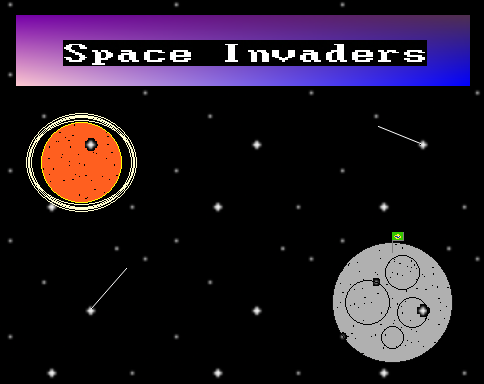
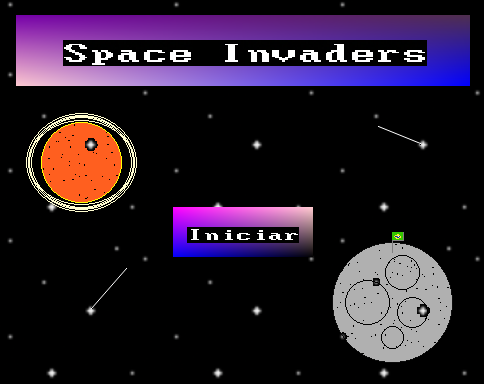
updated README.md

Changed region(s): [[0.3409, 0.5312, 0.6508, 0.6875]]

diff --git a/main.py b/main.py
@@ -37,6 +37,7 @@ laser_sound = load_sound("laser.wav")
 
 bullet_sound.set_volume(0.07)
 bomb_sound.set_volume(0.3)
+laser_sound.set_volume(0.3)
 dead_sound.set_volume(0.3)
 enemy_death_sound.set_volume(0.06)
 
@@ -395,6 +396,7 @@ def main(screen):
 		
 		if keyspressed[pygame.K_ESCAPE]:
 			running = False
+			break
 		
 		if keyspressed[pygame.K_SPACE]:
 			bullets_ps += 1
@@ -631,5 +633,15 @@ def main(screen):
 	quit()
 
 if __name__ == "__main__":
-	main(screen)
-	#tela_inicial(screen)
+	try:
+		if sys.argv[1] == "--skip":
+			main(screen)
+
+		elif sys.argv[1] == "--noskip":
+			tela_inicial(screen)
+
+		else:
+			print("No valid option was given, aborting.")
+			quit()
+	except IndexError:
+		print("\nYou should provide --skip if you want to skip the starting screen, or --noskip if you want to see it.")

diff --git a/README.md b/README.md
@@ -1,3 +1,7 @@
-# you might need to install pygame and numpy if you haven't already installed
+# Space Invaders
 
-# if you're Yuri, welcome! (it's a mess)
+> Para rodar o jogo, digite `python main.py --skip` (se quiser pular a tela inicial do jogo) ou ```python main.py --noskip``` (caso contrário). Se você estiver numa máquina [Linux](https://en.wikipedia.org/wiki/Linux), o comando ```python``` no terminal pode ser trocado por ```python3```.
+
+> Você precisará instalar o [numpy](https://numpy.org/install/#python-and-numpy-installation-guide) e o [pygame](https://www.pygame.org/wiki/GettingStarted#pygame-installation) para conseguir executar o jogo.
+
+ ## Divirta-se!
